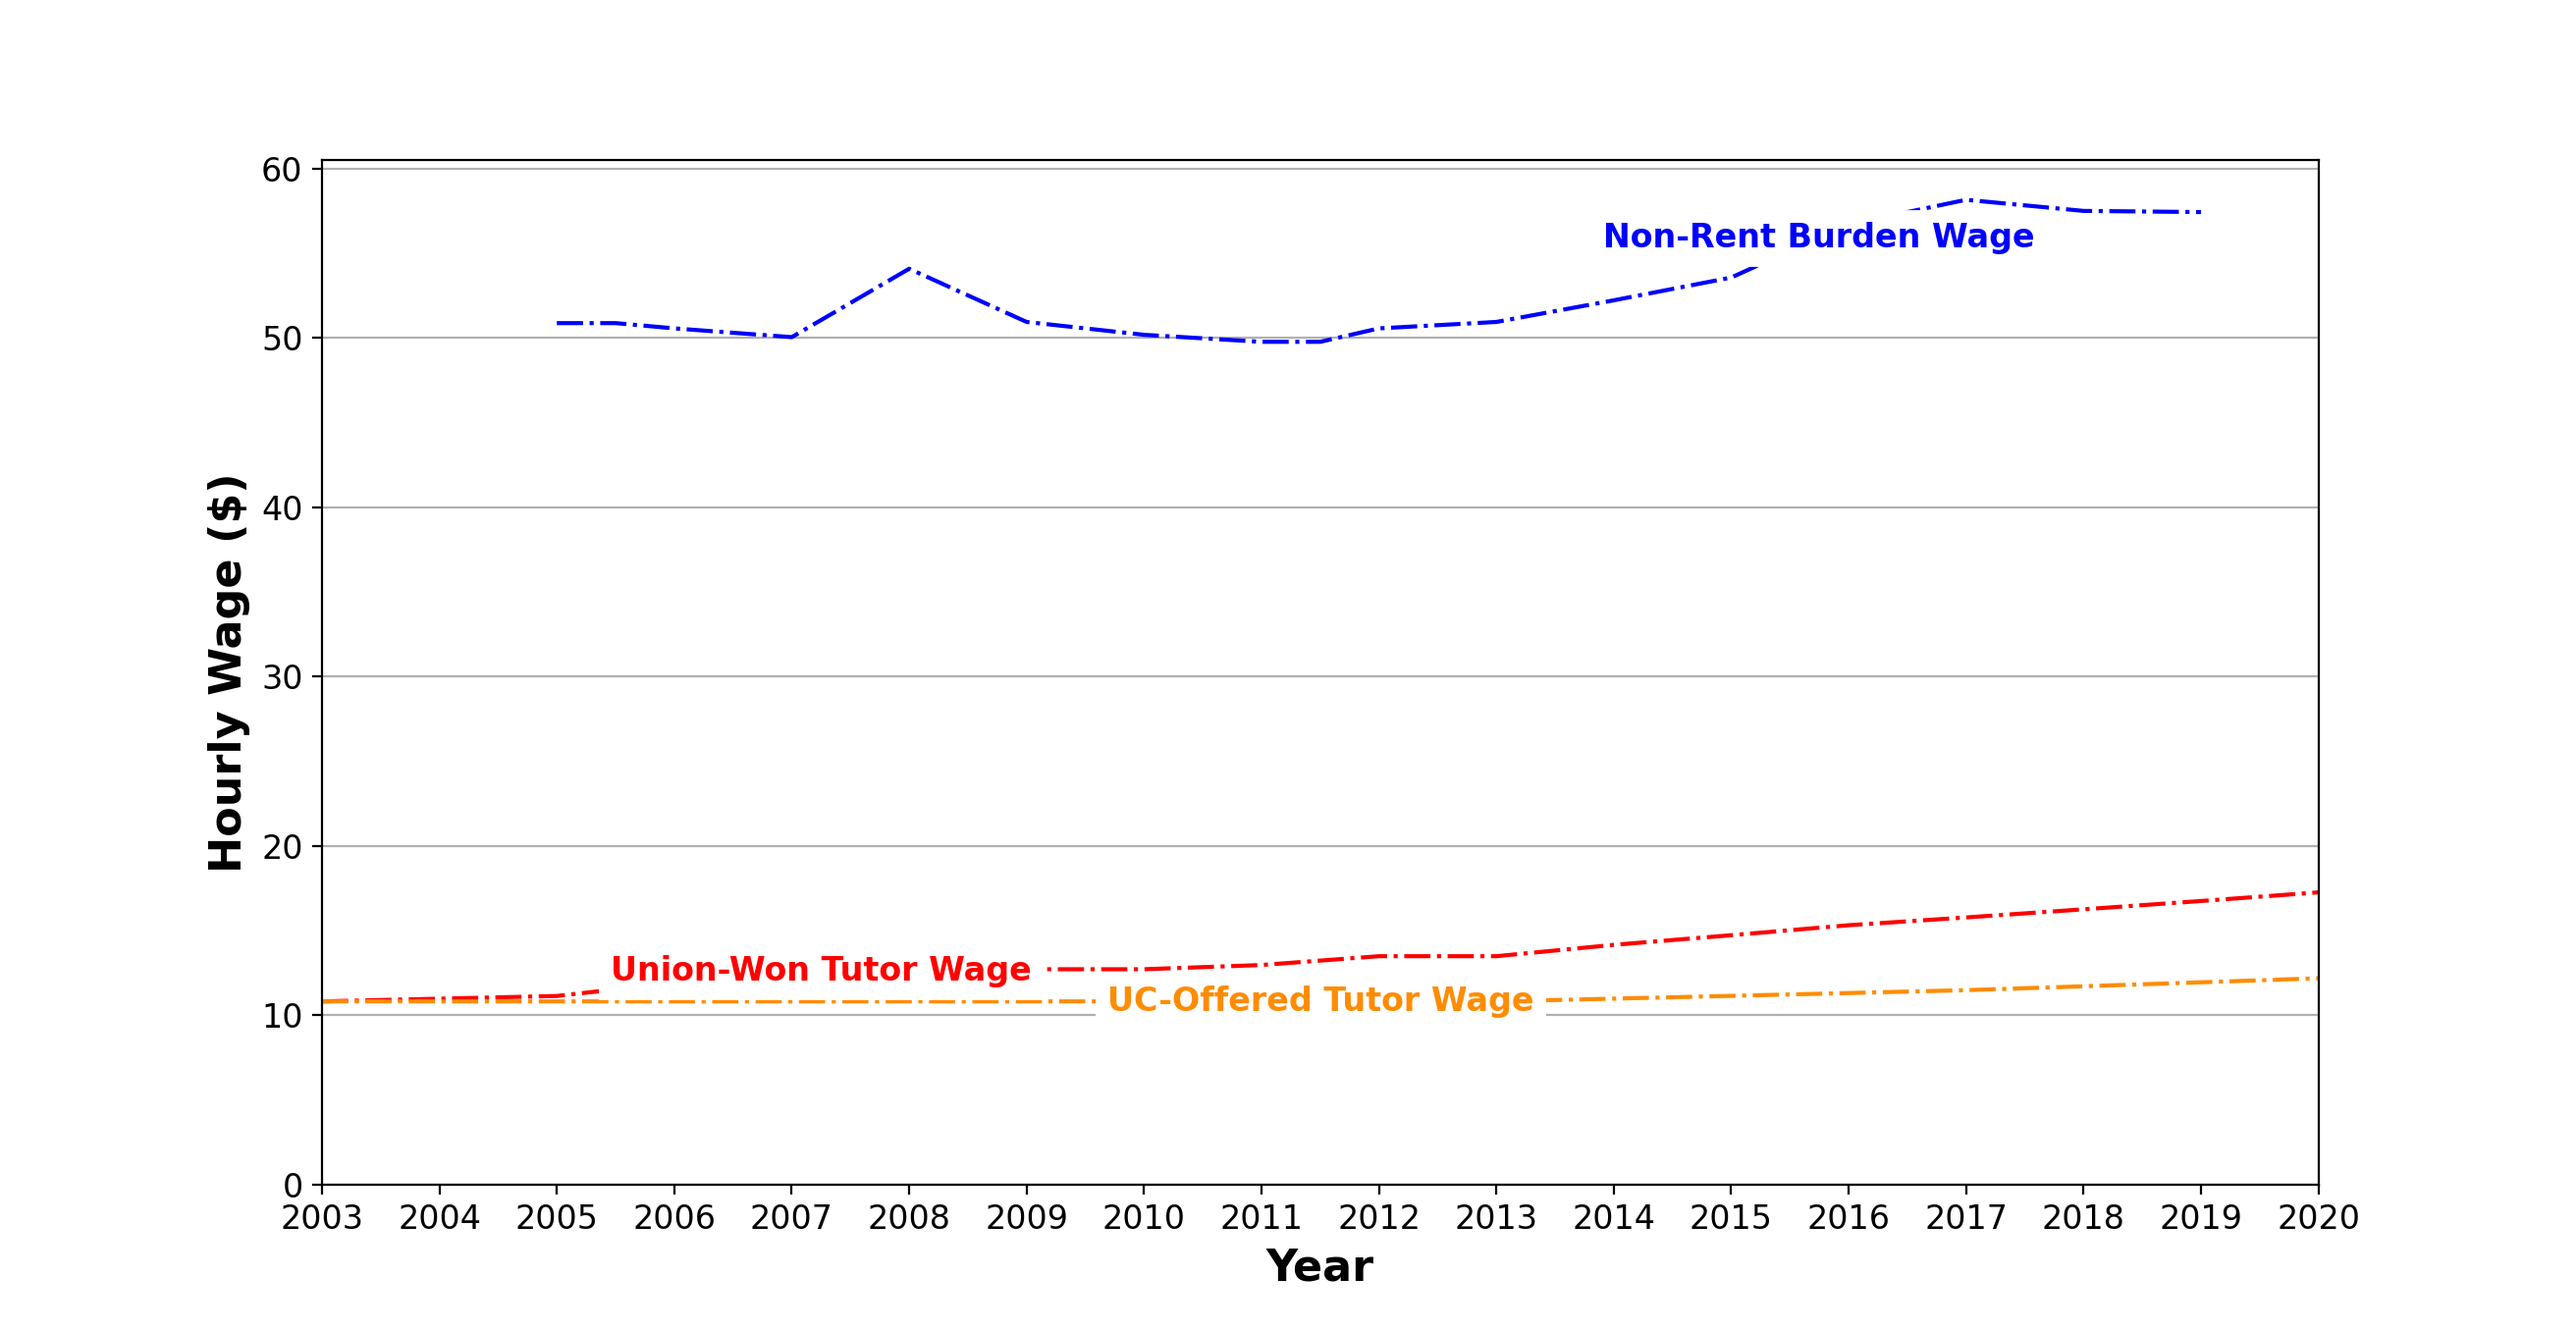
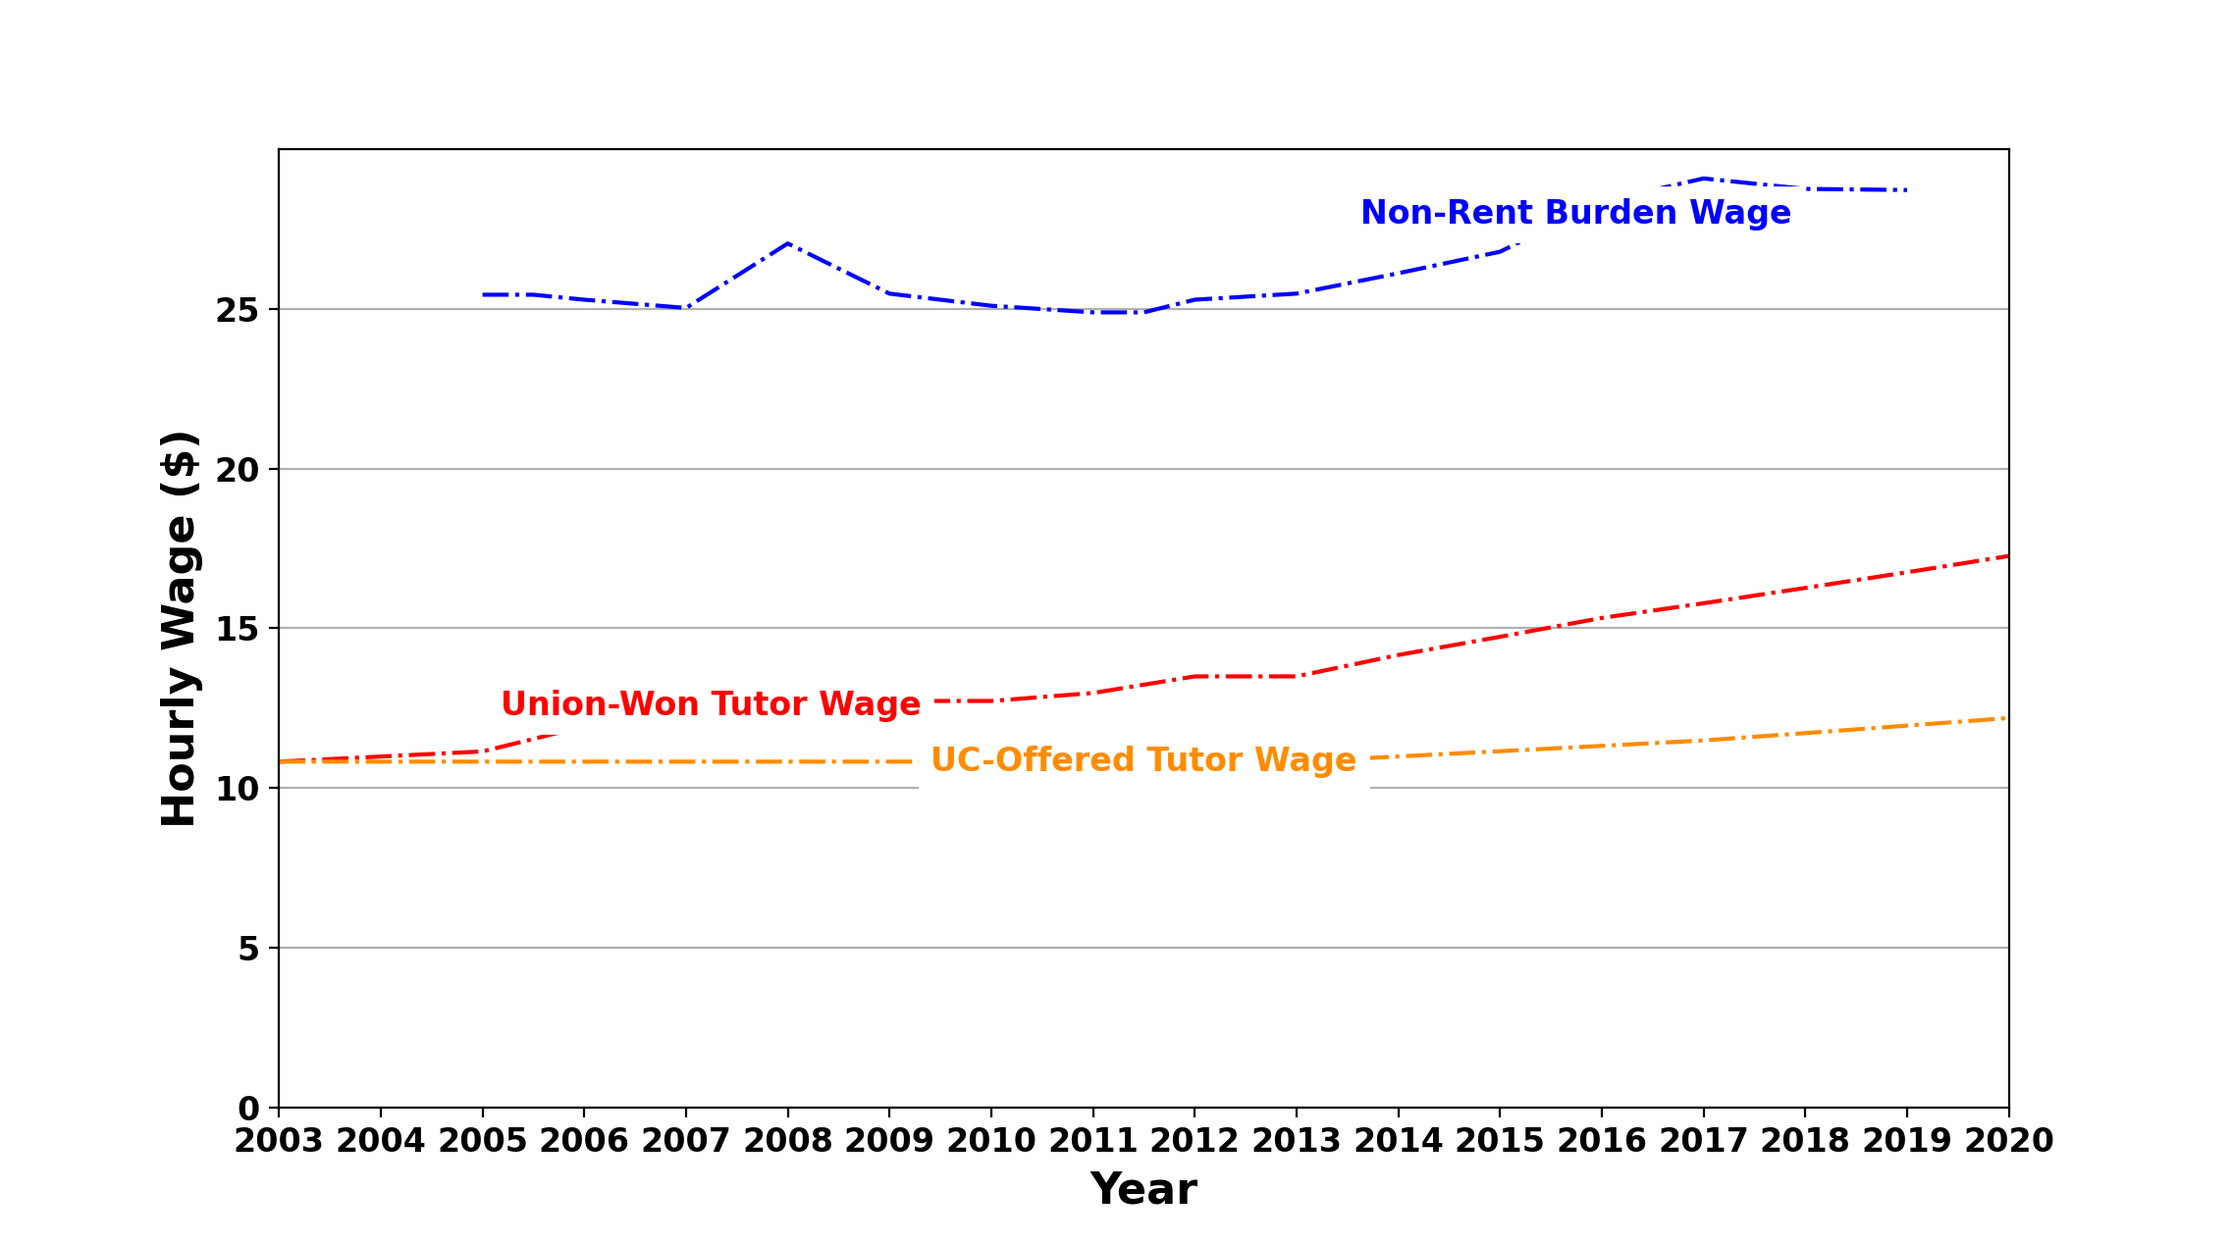
updates

diff --git a/wage_graphs.py b/wage_graphs.py
@@ -176,7 +176,7 @@ plt.plot(dates, tutor_actual_wage, color='red',
          linestyle='-.', label="Union-Won Tutor Wage")
 plt.plot(dates, uc_tutor_wage, color='darkorange',
          linestyle='-.', label="UC-Offered Tutor Wage")
-plt.plot(rent_dates, (average_rent_cost * 3 * 12) / (20 * 52.1429), color='blue',
+plt.plot(rent_dates, (average_rent_cost * 3 * 12) / (40 * 52.1429), color='blue',
          linestyle='-.', label="Non-Rent Burden Wage")
 
 # naming the y axis

diff --git a/README.md b/README.md
@@ -43,4 +43,4 @@ Defined as the initial offer from the UC on the Salary and Compensation Article 
 
 For Average Rent in Santa Barbara: https://www.deptofnumbers.com/rent/california/santa-barbara-county/
 
-The non-rent burdoned wage is the wage where average rent is only 1/3 of the total wage.
+The non-rent burdoned wage is the wage where average rent is only 1/3 of the total wage. For Tutor Wage graphs, the non-rent burdoned wage assumes a 40 hr/week work-week (this roughly correlates to the modern Santa Barbara Living Wage policy).
